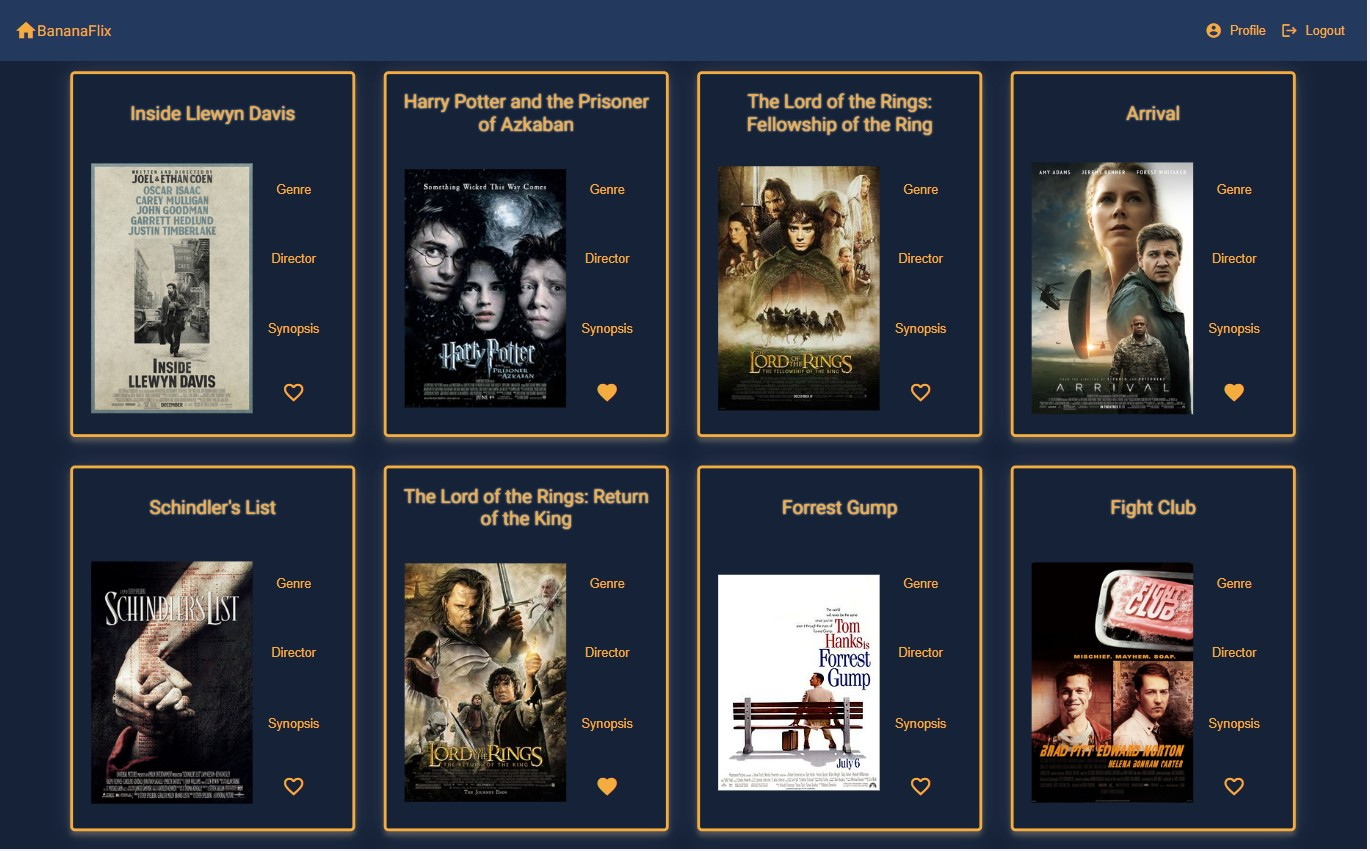
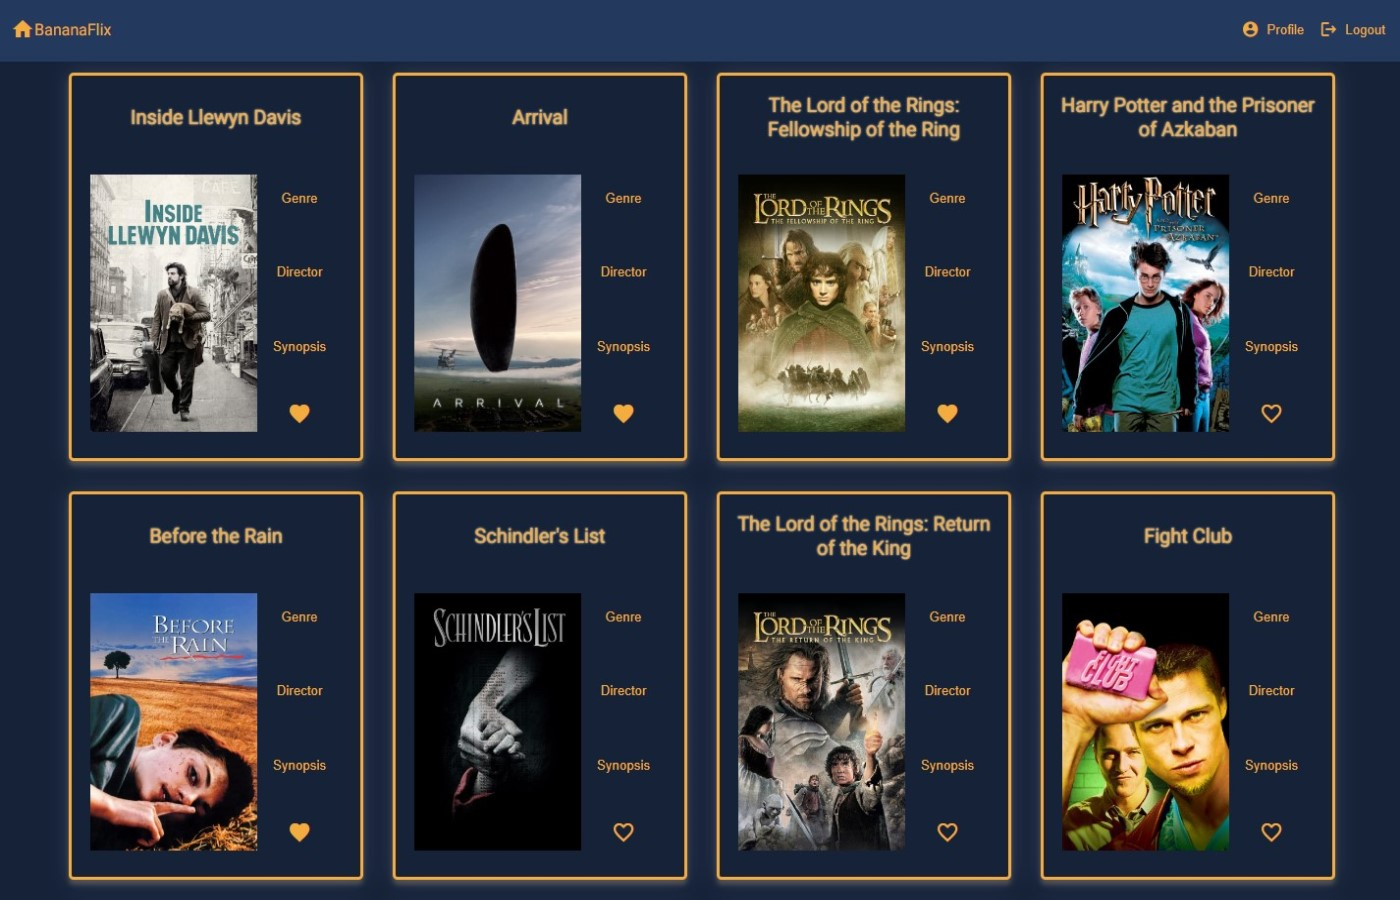
project_grid styling

diff --git a/work.html b/work.html
@@ -36,11 +36,11 @@
     <main class="page-main">
       <section>
         <h1 id="work-heading" >Have a look at some of my work</h1>
-        <div class="grid">
-          <div class="grid__item">
-            <h2>BananaFlix-React-client</h2>
-            <img class="grid__item_img" src="./img/banana_flix.jpg" alt="BananaFlix screenshot">
-            <p>
+        <div class="project_grid">
+          <div class="project">
+            <h2 class="project_title">BananaFlix-React-client</h2>
+            <img class="project_img" src="./img/react-overview.jpg" alt="BananaFlix screenshot">
+            <p class="project_description">
               The client side of a movie browsing app, made with React-Bootsrap.
               The application is a single-page application, uses state routing to navigate between views and share URLs.
               It uses Parcel as its build tool and is hosted on Netlify.
@@ -51,10 +51,10 @@
               <a href="case-study.html">Case study</a>
             </div>
           </div>
-          <div class="grid__item">
-            <h2>BananaFlix-Angular-client</h2>
-            <img class="grid__item_img" src="./img/angular-overview.jpg" alt="BananaFlix screenshot">
-            <p>
+          <div class="project">
+            <h2 class="project_title">BananaFlix-Angular-client</h2>
+            <img class="project_img" src="./img/angular-overview.jpg" alt="BananaFlix screenshot">
+            <p class="project_description">
               The client side of a movie browsing app, made with Angular and designed with Angular-Material.
               It allows users to register, log in and browse through movies. 
               They can add movies to their list of favorites and they can view their profile details and edit them as they wish. 
@@ -65,10 +65,10 @@
               <a href="case-study.html">Case study</a>
             </div>
           </div>
-          <div class="grid__item">
-            <h2>BananaFlix-backend</h2>
-            <img class="grid__item_img" src="./img/movie_api.jpg" alt="MongoDB screenshot">
-            <p>
+          <div class="project">
+            <h2 class="project_title">BananaFlix-backend</h2>
+            <img class="project_img" src="./img/movie_api.jpg" alt="MongoDB screenshot">
+            <p class="project_description">
               The backend for the movie browsing app: BananaFlix. Built with Node.js and MongoDB.
               The API is a Node.js and Express application. It uses REST architecture. The business logic is modeled with Mongoose.
               It includes user authentication and authorization code, data validation logic, meets data security regulations.
@@ -78,10 +78,10 @@
               <a href="https://github.com/S-Nikola/movie_api">See project on GitHub</a>
             </div>
           </div>
-          <div class="grid__item">
-            <h2>PokedexApp</h2>
-            <img class="grid__item_img" src="./img/pokedex.jpg" alt="Pokedex App screenshot">
-            <p>
+          <div class="project">
+            <h2 class="project_title">PokedexApp</h2>
+            <img class="project_img" src="./img/pokedex.jpg" alt="Pokedex App screenshot">
+            <p class="project_description">
               An app, for browsing Pokemon made with JavaScript, HTML and CSS.
               The users are able to view a list of data and see more details for a given data item on demand.
               The data is drawn from a public API
@@ -91,10 +91,10 @@
               <a href="https://github.com/S-Nikola/Pokedex_simple-JS-app">GitHub</a>
             </div>
           </div>          
-          <div class="grid__item">
-            <h2>Meet App</h2>
-            <img class="grid__item_img" src="./img/meet_app.jpg" alt="Meet App screenshot">
-            <p>
+          <div class="project">
+            <h2 class="project_title">Meet App</h2>
+            <img class="project_img" src="./img/meet_app.jpg" alt="Meet App screenshot">
+            <p class="project_description">
               Meet App is a progressive web app that lets you search for tech events in your city.
               You can see how many events are happening in a particular city and time-frame,
               the details of those events, and what types of events are most common in an area.
@@ -105,26 +105,26 @@
               <a href="https://github.com/S-Nikola/meet">GitHub</a>
             </div>
           </div>
-          <div class="grid__item">
-            <h2>Portfolio</h2>
-            <img class="grid__item_img" src="./img/portfolio.jpg" alt="Portfolio screenshot">
-            <p>
+          <div class="project">
+            <h2 class="project_title">Portfolio</h2>
+            <img class="project_img" src="./img/portfolio.jpg" alt="Portfolio screenshot">
+            <p class="project_description">
               The portfolio website you are browsing at the moment. Built with HTML and CSS, as part of the curriculum at CareerFoundry.
             </p>
             <div class="project-buttons">
               <a href="https://github.com/S-Nikola/CF-Portfolio-website">GitHub</a>
             </div>
           </div>
-          <div class="grid__item">
-            <h2>Book promotion website</h2>
-            <img class="grid__item_img" src="./img/bootstrap_book.jpg" alt="Bootstrap book promotion website screenshot">
-            <p>
+          <div class="project">
+            <h2 class="project_title">Book promotion website</h2>
+            <img class="project_img" src="./img/bootstrap_book.jpg" alt="Bootstrap book promotion website screenshot">
+            <p class="project_description">
               A website created using Bootstrap, where a book is promoted and offered for purchase.
               It was created following an online tutorial by NetNinja. It is still a work in progress.
             </p>
             <div class="project-buttons">
               <a href="https://s-nikola.github.io/RoW-Book_NS_bootstrap/">Live Demo</a>
-              <a class="grid-button" href="https://github.com/S-Nikola/RoW-Book_NS_bootstrap" target="_blank">GitHub</a>
+              <a href="https://github.com/S-Nikola/RoW-Book_NS_bootstrap" target="_blank">GitHub</a>
             </div>
           </div>
         </div>

diff --git a/case-study.html b/case-study.html
@@ -5,12 +5,12 @@
     <meta http-equiv="X-UA-Compatible" content="IE=edge">
     <meta name="viewport" content="width=device-width, initial-scale=1">
      <title>Case-study: BananaFlix</title>
-      <link rel="icon" href="./img/favicon-32x32.png" sizes="32x32">
-      <link rel="icon" href="./img/favicon-16x16.png" sizes="16x16">
-      <link rel="stylesheet" type="text/css" href="https://cdnjs.cloudflare.com/ajax/libs/normalize/8.0.1/normalize.min.css">
-      <link href="https://fonts.googleapis.com/css2?family=Lato&family=Lora&display=swap" rel="stylesheet">
-      <link rel="stylesheet" type="text/css" href="./css/styles.css">
-      <script src="js/tota11y.min.js"></script>
+    <link rel="icon" href="./img/favicon-32x32.png" sizes="32x32">
+    <link rel="icon" href="./img/favicon-16x16.png" sizes="16x16">
+    <link rel="stylesheet" type="text/css" href="https://cdnjs.cloudflare.com/ajax/libs/normalize/8.0.1/normalize.min.css">
+    <link href="https://fonts.googleapis.com/css2?family=Lato&family=Lora&display=swap" rel="stylesheet">
+    <link rel="stylesheet" type="text/css" href="./css/styles.css">
+    <script src="js/tota11y.min.js"></script>
  </head>
 <body>
   <div class="container">
@@ -147,24 +147,24 @@
               the framework, learn the basics of TypeScript and employ more advanced forms of documentation.
               Therefore, the Angular client has both a simpler look and a somewhat reduced functionality. 
             </p>
-          <div class="views-img-wrap">
-            <div id="phone-views">
-              <figure>
-                <img class="view-img" id="MovieView" src="./img/BFlix_case/react-MovieView-phone.jpg" alt="screenshot of movie list" />
-                <figcaption>React MovieView on a small screen</figcaption>
+            <div class="views-img-wrap">
+              <div id="phone-views">
+                <figure>
+                  <img class="view-img" id="MovieView" src="./img/BFlix_case/react-MovieView-phone.jpg" alt="screenshot of movie list" />
+                  <figcaption>React MovieView on a small screen</figcaption>
+                </figure>
+                <figure>
+                  <img class="view-img" src="./img/BFlix_case/angular-phone-view.jpg" alt="screenshot of movie list" />
+                  <figcaption>Angular main view on a small screen</figcaption>
+                </figure>
+              </div>
+              <div>
+                <figure>
+                <img class="view-img" id="profile-view" src="./img/BFlix_case/react-profile-laptop.jpg" alt="screenshot of movie list" />
+                <figcaption>React ProfileView on a large screen</figcaption>
               </figure>
-              <figure>
-                <img class="view-img" src="./img/BFlix_case/angular-phone-view.jpg" alt="screenshot of movie list" />
-                <figcaption>Angular main view on a small screen</figcaption>
-              </figure>
+              </div>
             </div>
-            <div>
-              <figure>
-              <img class="view-img" id="profile-view" src="./img/BFlix_case/react-profile-laptop.jpg" alt="screenshot of movie list" />
-              <figcaption>React ProfileView on a large screen</figcaption>
-            </figure>
-            </div>
-          </div>
           </div>
             <h2 id="challenges" >--- Challenges ---</h2>
             <p>
@@ -193,8 +193,6 @@
               <a href="https://github.com/S-Nikola/movie_api" target="_blank">Code for the backend</a>
             </div>
       </div>
-  </div>
-        
     </main>  
     <footer class="page-footer">
       <p>Find me on</p>
@@ -209,7 +207,6 @@
           <img class="social-media_icon" src="img/linkedin-svgrepo-com.svg" alt="LinkedIn">
         </a>
       </div>
-  </div>
       <p>under construction...</p> 
     </footer>
   </div>

diff --git a/css/styles.css b/css/styles.css
@@ -88,17 +88,16 @@ body p, label{
 }
 /* header styling end */
 
-/* General grid stylings start */
-.grid__item {
-  display: inline-block;
-  width: 33%;
- }
-.grid {
+/* General project_grid stylings start */
+
+.project_grid {
   display: grid;
   grid-template-columns: 1fr 1fr 1fr;
   grid-gap: 20px;
 }
-.grid__item {
+.project {
+  display: inline-block;
+  width: 33%;
   background-color: var(--deep-blue);
   color: var(--creme);
   border-radius: 30px;
@@ -110,23 +109,59 @@ body p, label{
   box-shadow: 0 0 20px 0 rgba(168, 165, 199, 0.2), 0 5px 5px 0 rgba(238, 203, 150, 0.24);
   position: relative;
 }
-/* General grid stylings end*/
 
+.project{
+  display: flex;
+  flex-direction: column;
+  flex-wrap: nowrap;
+  align-items: center;
+  justify-content: space-between;
+}
+.project_title{
+  font-size: 2.5vmin;
+}
+.project_description{
+  height: 30%;
+  font-size: 1.6vmin;
+}
 
-/* // I will not use these for the time being */
-/* body div span{
-  background-color: --deep-blue;
-  color: #b9b1a9;
-  padding: 4px;
-  border-radius: 60%;
-} */
+.project-buttons {
+  display: flex;
+  justify-self: end;
+}
 
-/* .grid__item:last-child {
-  grid-column: 3 / 3;
-  grid-row: 1 / 3;
-} */
+.project-buttons a{
+  background-color: var(--creme);
+  border-radius: 5px;
+  padding: 2px 10px;
+  color: var(--deep-blue);
+  font-weight: bold;
+  font-size: 1.6vmin;
+  display: inline-block;
+  margin: 5px;
+}
 
+.project_img {
+  width: 100%;
+  border: 2px solid #b69979;
+  box-shadow: 0 0 20px 0 rgba(168, 165, 199, 0.2), 0 5px 5px 0 rgba(238, 203, 150, 0.24);
+}
 
+.project a:last-of-type {
+  bottom: 6px; /* add a small gap between the two elements */
+}
+.project_grid a:visited{
+  background-color: var(--silver);
+  border-radius: 5px;
+  color: var(--deep-blue);
+}
+.project_grid a:hover, a:focus{
+  background-color: var(--blue);
+  color: white;
+  text-decoration: underline;
+}
+
+/* General project_grid stylings end*/
 
   /* Footer stylings start*/
 .page-footer{
@@ -316,65 +351,24 @@ footer div a:visited{
   top: -4px;
 }
 
-.grid__item{
-  display: flex;
-  flex-direction: column;
-  flex-wrap: nowrap;
-  align-items: center;
-  justify-content: space-between;
-}
-
-.project-buttons {
-  display: flex;
-}
-
-.project-buttons a{
-  background-color: var(--creme);
-  border-radius: 5px;
-  padding: 2px 10px;
-  color: var(--deep-blue);
-  font-weight: bold;
-  display: inline-block;
-  margin: 5px;
-}
-
-.grid__item_img {
-  width: 100%;
-  border: 2px solid #b69979;
-  box-shadow: 0 0 20px 0 rgba(168, 165, 199, 0.2), 0 5px 5px 0 rgba(238, 203, 150, 0.24);
-}
-
-.grid__item a:last-of-type {
-  bottom: 6px; /* add a small gap between the two elements */
-}
-.grid a:visited{
-  background-color: var(--silver);
-  border-radius: 5px;
-  color: var(--deep-blue);
-}
-.grid a:hover, a:focus{
-  background-color: var(--blue);
-  color: white;
-  text-decoration: underline;
-}
 /*color specifics end*/
 
 /*MEDIA QUERIES start*/
 @media all and (max-width: 700px) {
-  .grid {
+  .project_grid {
     grid-template-columns: 1fr;
   }
 }
 @media all and (min-width: 700px) and (max-width: 1100px){
-  .grid {
+  .project_grid {
     grid-template-columns: 1fr 1fr;
   }
 }
 @media all and (max-width: 750px) {
-  .grid {
+  .project_grid {
     grid-gap: 10px;
   }
-  .grid__item:last-child {
+  .project:last-child {
     grid-column: auto / auto;
     grid-row: auto / auto;
   }
@@ -457,11 +451,12 @@ footer div a:visited{
 .case-study{
   margin: 0 200px 0;
 }
-h1, h2 {
+.case-study h1, .case-study h2 {
   text-align: center;
   margin-top: 50px;
 }
-h1{
+
+.case-study h1{
   margin-top: 0;
   margin-bottom: 50px;
 }
